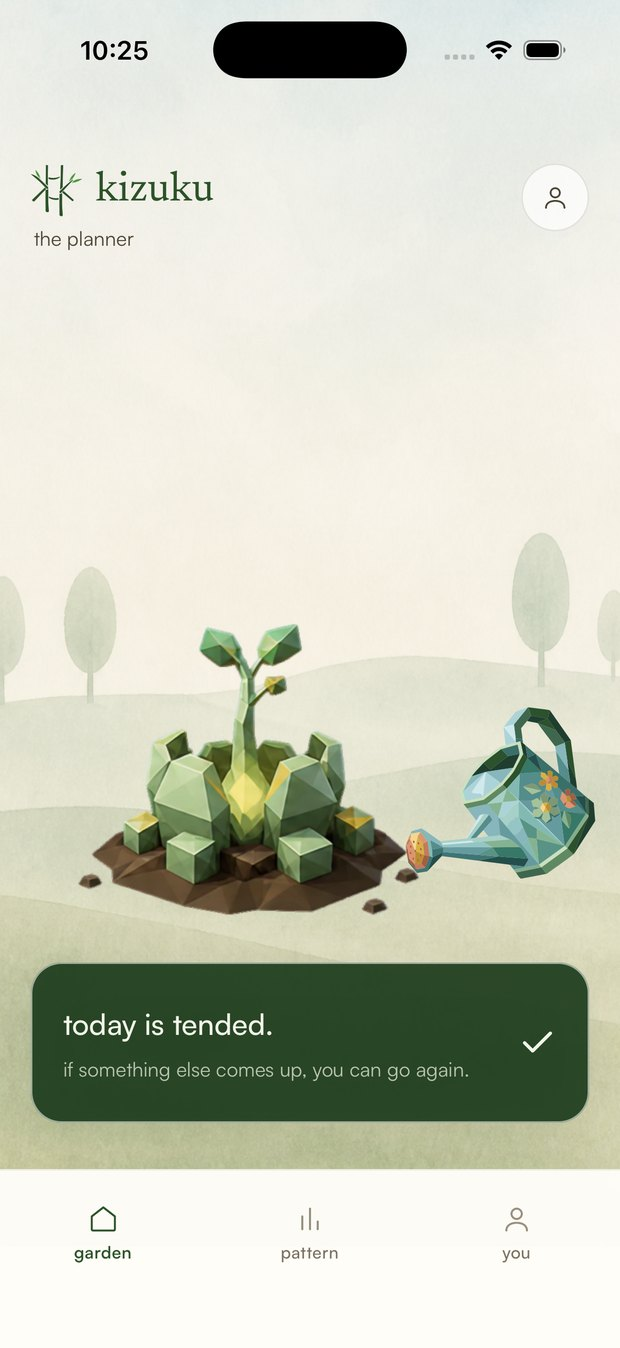
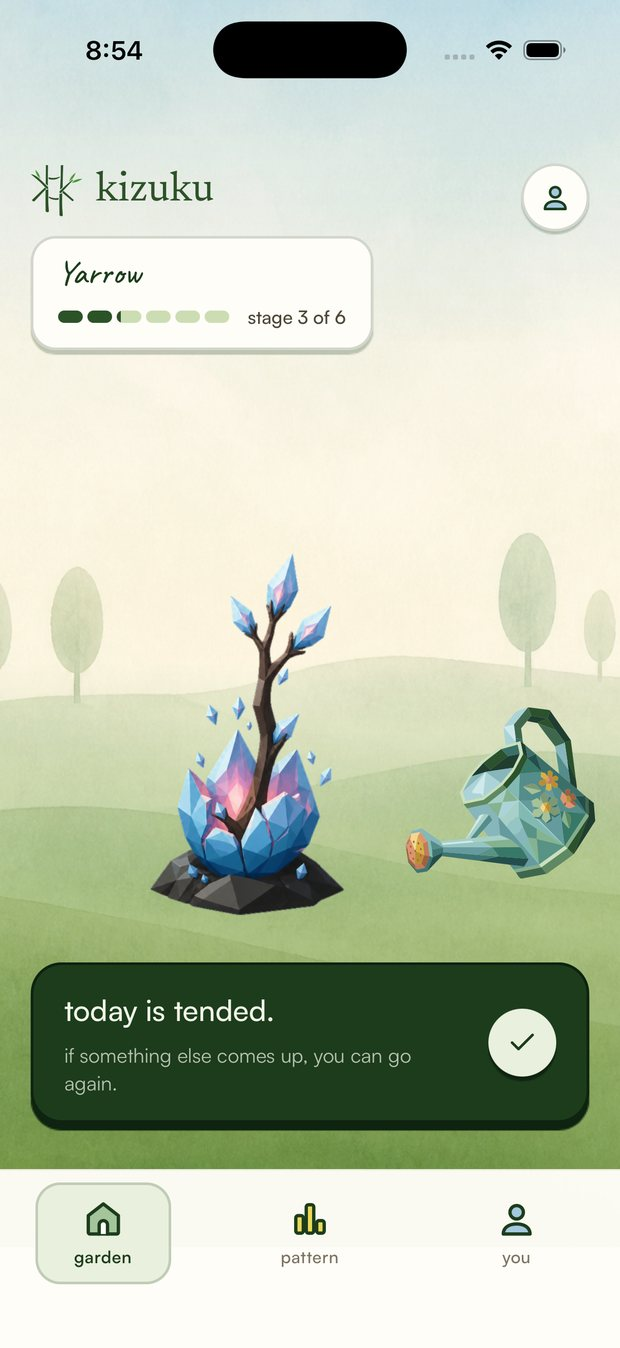
Reshoot Kizuku on device after the visual pass, and add the decision
The six app screenshots showed the app before it gained colour. They
are retaken from the simulator after the pass: the type colour as the
ground, stamped edges, sticker icons, the stage meter on the garden, the
suggestions under the worry slip, and the light behind the growth and
the reveal. One continuous loop as the seeker, so the growth shot is a
real change of stage, two to three.

Same slots, same size (620 wide). Two captions were no longer true of
their image and changed with it — the garden is now the seeker's tree,
and the action came from a different worry — along with the sentence
above the strip that made the same claim.

One decision added, and the count moves to six. Nothing else on the
page is touched.

diff --git a/app/kizuku/page.js b/app/kizuku/page.js
@@ -63,15 +63,16 @@ const DECISIONS = [
   ['The type had to actually decide something', 'For a while it did not. The quiz set colours and artwork, and the action was then picked by summing the character codes of your worry. Personality was not an input at all. Actions now carry the types they serve, selection rotates least-recently-used inside your own pool, and what you wrote is read once, in memory, to prefer one action over another. It is still never stored.'],
   ['Six stages, landing on thirty', 'Growth used to finish after a single action, so the metaphor the whole loop builds toward was spent on day one. Three trees at six stages each. The curve opens fast, so the second stage arrives immediately and nobody waits to see that this responds to them. Then it lengthens, to put the last stage at the thirty-day milestone the brand already committed to.'],
   ['Growth tied to emotional labour, not time', 'Forest grows a tree when you sit still. Kizuku grows one when you face something hard. Same mechanic, completely different meaning.'],
+  ['Louder, without a new colour', 'Next to Finch it looked washed out: soft shadows at 8% opacity, pale grounds, grey outline icons. Everything I changed stayed inside the palette. The type colour became the ground, every surface got a hard darker edge, icons are filled with the three type pigments, and light breaks behind the two moments something arrives. I built a watercolour ground, measured it, then took it out after using it on a phone. Contrast was checked on every pixel.'],
   ['Copy decided at word level', '"Start quiz" against "find my tree type": one word decides whether the user feels assessed or invited. Every line documented with its before and after.'],
 ]
 
 // Captured from the running build, not from the Figma comps — this is what
 // the app actually looks like today, Satoshi and all.
 const SCREENS = [
-  ['/kizuku/app/garden.jpg', 'the garden. the planner’s tree at three actions.'],
+  ['/kizuku/app/garden.jpg', 'the garden. the seeker’s tree at three actions.'],
   ['/kizuku/app/worry.jpg', 'one worry. it is read once and never stored.'],
-  ['/kizuku/app/action.jpg', '“putting off the file” came back as start.'],
+  ['/kizuku/app/action.jpg', '“a message i still haven’t replied to” came back as reach out.'],
   ['/kizuku/app/reflection.jpg', 'what happened. this becomes the journal page.'],
   ['/kizuku/app/growth.jpg', 'the tree at its next stage.'],
 ]
@@ -135,7 +136,7 @@ export default function Kizuku() {
         <Heading>One worry in, one action out.</Heading>
         <p className="mb-8">
           The whole app, in five screens — shot on an iPhone. The action in the middle is the one that
-          worry really produced: “putting off the file” came back as <em>start</em>. The tab bar leaves
+          worry really produced: “a message i still haven’t replied to” came back as <em>reach out</em>. The tab bar leaves
           after the garden and returns at the growth, so there is nothing to wander off to mid-ritual.
         </p>
 
@@ -282,7 +283,7 @@ export default function Kizuku() {
       <Rule />
 
       <motion.section {...rise(0.26)}>
-        <Heading>Five more calls, and the reasoning.</Heading>
+        <Heading>Six more calls, and the reasoning.</Heading>
         <Decisions items={DECISIONS} />
       </motion.section>
 
